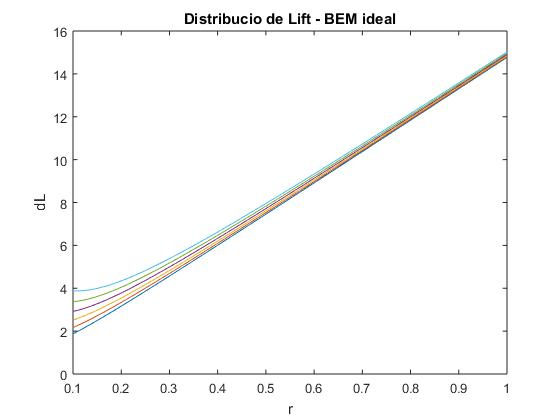
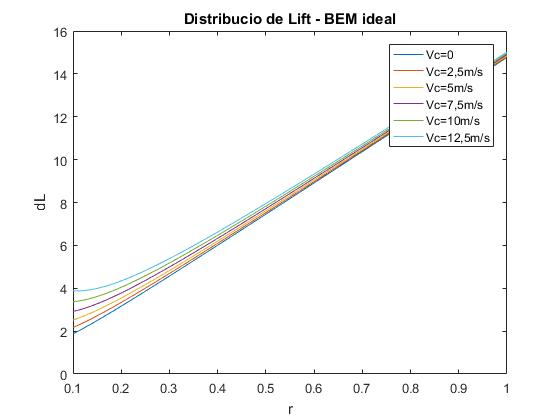
Add files via upload

Changed region(s): [[0.1214, 0.0619, 0.9107, 0.8976]]

diff --git a/Distribucio_lift_noideal.m b/Distribucio_lift_noideal.m
@@ -1,0 +1,13 @@
+%% Distribucio_lift_noideal
+for i=1:nnodes
+    for j=1:length(Vc)
+        dL(i,j)=0.5*rho*c(i,j)*sqrt((Omegadisseny*R*r(i))^2+(Vc(j)+lambda(i,j)*Omegadisseny*R)^2)*dr*R;
+    end
+end
+
+figure;
+plot(r,dL);
+xlabel('r')
+ylabel('dL')
+title('Distribucio de Lift - BEM sense perdues')
+legend('Vc=0','Vc=2,5m/s','Vc=5m/s','Vc=7,5m/s','Vc=10m/s','Vc=12,5m/s')

diff --git a/Distribucio_moment_noideal.m b/Distribucio_moment_noideal.m
@@ -1,0 +1,13 @@
+%% Distribucio_moments_noideal
+for i=1:nnodes
+    for j=1:length(Vc)
+        dM(i,j)=dL(i,j)*r(i)*R;
+    end
+end
+
+figure;
+plot(r,dM);
+xlabel('r')
+ylabel('dM')
+title('Distribucio de Moments - BEM sense perdues')
+legend('Vc=0','Vc=2,5m/s','Vc=5m/s','Vc=7,5m/s','Vc=10m/s','Vc=12,5m/s')

diff --git a/Distribucio_moment_ideal.m b/Distribucio_moment_ideal.m
@@ -1,0 +1,12 @@
+%% Calcul distribucio del moment-ideal
+for i=1:nnodes
+    for j=1:nVc
+        dM(i,j)=dL(i,j)*r(i)*R;
+    end
+end
+figure;
+plot(r,dM);
+xlabel('r')
+ylabel('dM')
+title('Distribucio de Moment - BEM ideal')
+legend('Vc=0','Vc=2,5m/s','Vc=5m/s','Vc=7,5m/s','Vc=10m/s','Vc=12,5m/s')
